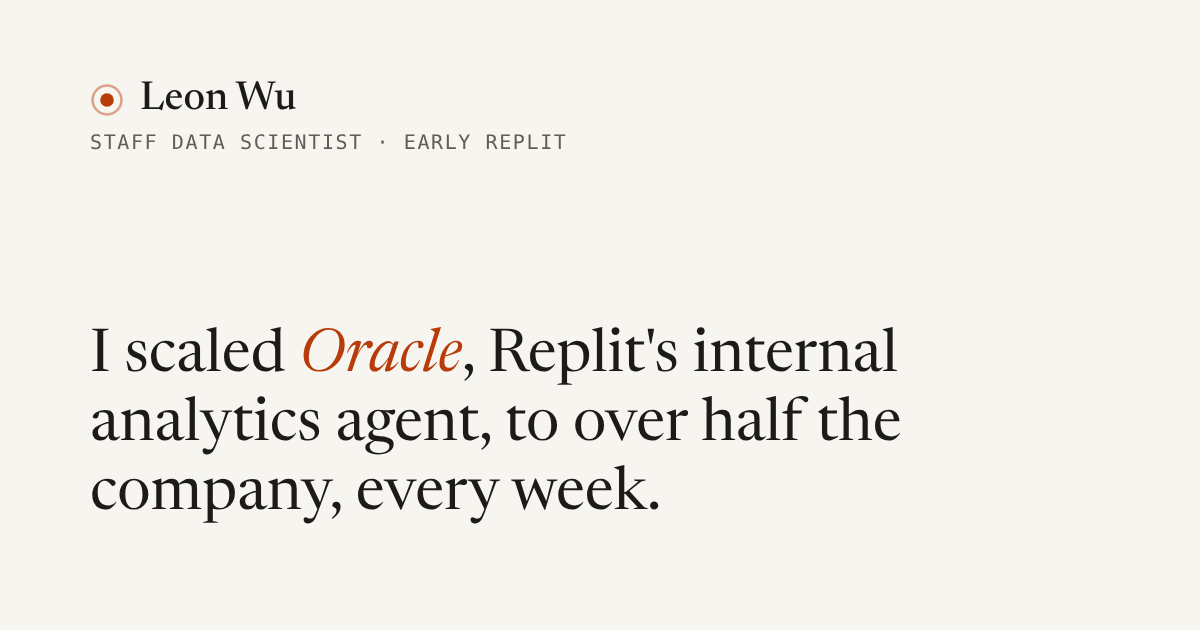
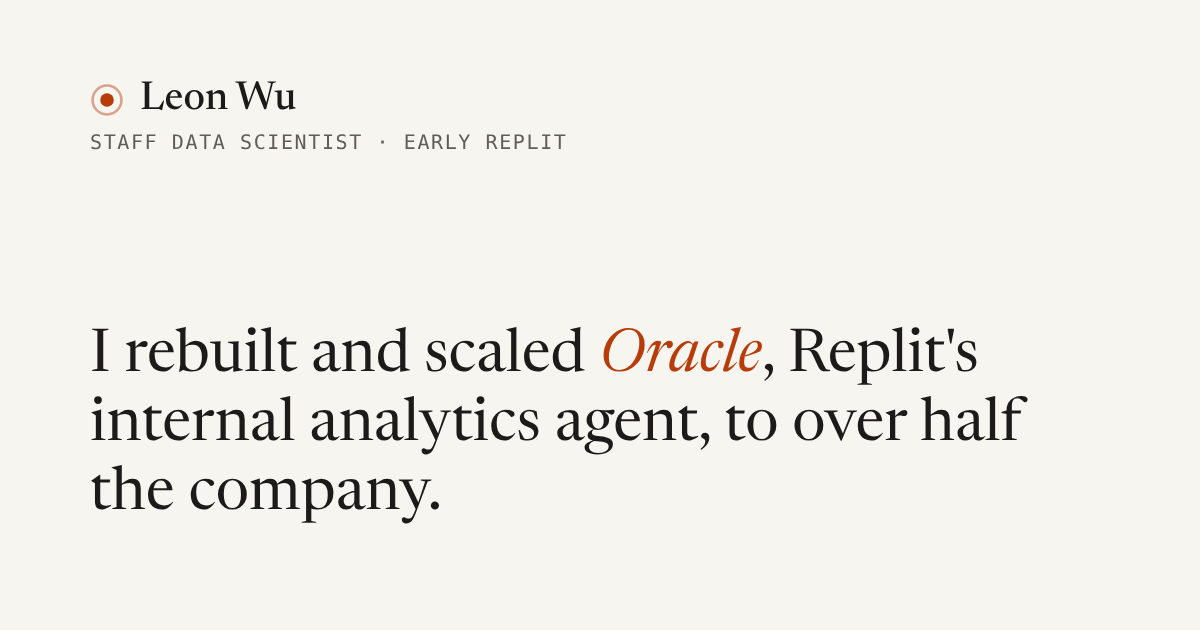
Oracle: rebuilt and scaled, not originated
Claude-Session: https://claude.ai/code/session_01De9e6Q9Y3jMqxPCjAmYfKd

Changed region(s): [[0.0617, 0.6333, 0.8633, 0.8444], [0.0925, 0.5127, 0.8325, 0.6032]]

diff --git a/src/site.ts b/src/site.ts
@@ -5,7 +5,7 @@ export const SITE = {
   name: 'Leon Wu',
   title: 'Leon Wu · Staff Data Scientist, Early Replit',
   description:
-    'Leon Wu led and scaled Oracle, Replit’s internal analytics agent. Staff data scientist on Replit’s founding data team, owning growth, monetization and revenue analytics and the data stack underneath. Previously Indeed.',
+    'Leon Wu rebuilt and scaled Oracle, Replit’s internal analytics agent. Staff data scientist on Replit’s founding data team, owning growth, monetization and revenue analytics and the data stack underneath. Previously Indeed.',
   email: 'lw75251@gmail.com',
   github: 'https://github.com/lw75251',
   linkedin: 'https://www.linkedin.com/in/aleonwu/',
